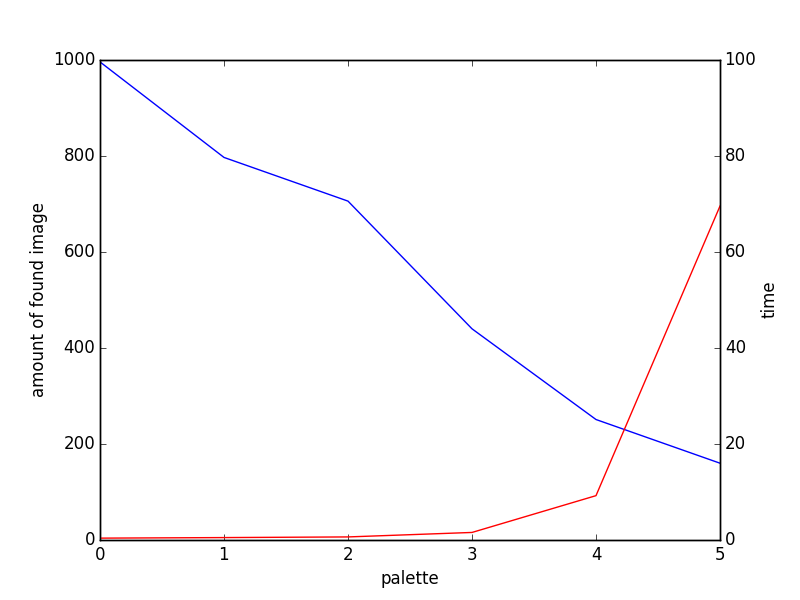
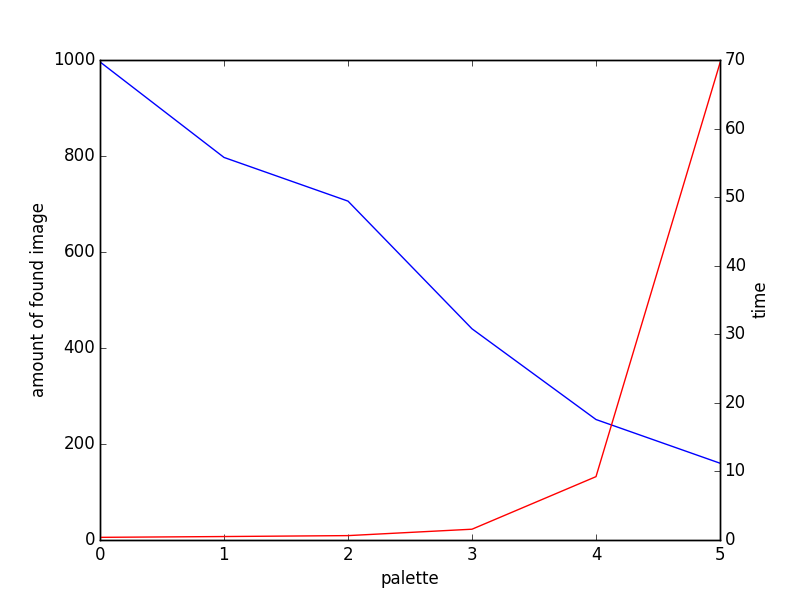
fix histogram

diff --git a/histogram.py b/histogram.py
@@ -1,74 +1,16 @@
 #!/usr/bin/env python3
 # coding: utf-8
 
-from PIL import Image
 
-
-class Histogram(object):
-    def __init__(self, crop, scheibe, palette):
-        self.setinfo(crop, scheibe, palette)
-
-    def open(self, fp):
-        self.ImgObj = Image.open(fp)
-        return self
-
-    def close(self):
-        self.ImgObj.close()
-
-    def getinfo(self):
-        return self.CROP, self.SLICE, self.PALETTE
-
-    def setinfo(self, crop=None, scheibe=None, palette=None):
-        self.CROP = crop if crop else self.CROP
-        self.SLICE = scheibe if scheibe else self.SLICE
-        self.PALETTE = palette if palette else self.PALETTE
-
-    def getrgb(self):
-        rgb = self.ImgObj.convert("RGB")
-        return list(rgb.getdata())
-
-    def generate(self):
-        rgb = self.getrgb()
-        PALETTE = self.PALETTE
-        histogram = [0 for _ in range(1 << (PALETTE*3))]
-        for dot in rgb:
-            r, g, b = map(lambda emit: emit >> (8-PALETTE), dot)
-            histogram[(r << (PALETTE*2))+(g << PALETTE)+b] += 1
-        return histogram
-
-    def crop(self):
-        cropped = []
-        CROP = self.CROP
-        width, height = map(lambda n: n // CROP, self.ImgObj.size)
-        for w in range(CROP):
-            for h in range(CROP):
-                box = (w*width, h*height, (w+1)*width, (h+1)*height)
-                cropped.append(self.ImgObj.crop(box))
-        return cropped
-
-    def form(self):
-        ImgObj = self.ImgObj
-        histograms = []
-        for piece in self.crop():
-            self.ImgObj = piece
-            rgb = self.getrgb()
-            histogram = self.generate()
-            sliced = slice(histogram, self.SLICE)
-            histograms.append(sliced)
-        self.ImgObj = ImgObj
-        return histograms
+def histogram(ImgObj):
+    rgb = ImgObj.convert("RGB")
+    PALETTE = 2
+    histogram = [0 for _ in range(1 << (PALETTE*3))]
+    for dot in rgb.getdata():
+        r, g, b = map(lambda emit: emit >> (8-PALETTE), dot)
+        histogram[(r << (PALETTE*2))+(g << PALETTE)+b] += 1
+    return histogram
 
 
 def intersection(histogram, comparison):
     return sum(map(min, histogram, comparison)) / (sum(histogram)+1)
-
-
-def slice(histogram, scheibe):
-    return [histogram[i::scheibe] for i in range(scheibe)]
-
-
-def compare(base, comparison):
-    avg = lambda l: sum(l) / len(l)
-    intersect = lambda b, h: list(map(intersection, b, h))
-    cropped = map(intersect, base, comparison)
-    return min(map(avg, list(cropped))) # min or avg

diff --git a/similarsearch.py b/similarsearch.py
@@ -10,11 +10,10 @@ from histogram import Histogram
 
 
 proc = 8
-EXTITLE = lambda info: '_crop%d_scheibe%d_palette%d' % info
-HISTOGRAM_PATH = lambda d, info: os.path.join(d, '.histogram'+EXTITLE(info))
+HISTOGRAM_PATH = lambda d: os.path.join(d, '.histogram')
 
 
-def StackHistogram(directory, crop, scheibe, palette, ignore=[]):
+def StackHistogram(directory, crop, ignore=[]):
     global stack
     precisions = (crop, scheibe, palette)
     histodir = HISTOGRAM_PATH(directory, precisions)
@@ -95,3 +94,20 @@ def Search(fp, directory, crop, scheibe, palette, tolerance):
             similar.append(histoname)
 
     return similar
+
+#!/usr/bin/env python3
+# coding: utf-8
+
+
+def histogram(ImgObj):
+    rgb = ImgObj.convert("RGB")
+    PALETTE = 2
+    histogram = [0 for _ in range(1 << (PALETTE*3))]
+    for dot in rgb.getdata():
+        r, g, b = map(lambda emit: emit >> (8-PALETTE), dot)
+        histogram[(r << (PALETTE*2))+(g << PALETTE)+b] += 1
+    return histogram
+
+
+def intersection(histogram, comparison):
+    return sum(map(min, histogram, comparison)) / (sum(histogram)+1)

diff --git a/ran/plot.py b/ran/plot.py
@@ -1,6 +1,6 @@
 import matplotlib.pyplot as plt
 
-fps = ['crop', 'scheibe', 'precision']
+fps = ['crop', 'scheibe', 'palette', 'precision']
 
 def parse(fp, t):
     f = open(fp).read().split()
@@ -15,7 +15,7 @@ def plot(fp):
     ax2.plot(parse(fp, 0), color='r', label='time')
     ax2.set_ylabel('time')
     ax1.set_ylim(0, 1000)
-    ax2.set_ylim(0, 2)
+    ax2.set_ylim(bottom=0)
     # ax1.legend(loc=0)
     # ax2.legend(loc=0)
     fig.savefig(fp+'.png')

diff --git a/.histogram.md b/.histogram.md
@@ -1,88 +1,11 @@
-# The `histogram` module
+# The `similarsearch` module
 
 This module is for the similar image search using the Histogram Intersection.
-This module is dependent on the PIL(Pillow).
+This module is dependent on the PIL(Pillow). Import `PIL` for processing Image
+Object.
 
-
-
-## The `Histogram(crop, scheibe, palette)` class
-
-This class is for generate histogram. First import `Histogram`:
-
-    >>> from histogram import Histogram
-    >>> hst = Histogram(5, 1, 3)
-
-
-### Using `Histogram.open(fp)`
-
-This module reads the image specified in the `fp` to generate histogram using
-`PIL.Image`.
-
-    >>> try:
-    ...     hst.open('image/not/exist')
-    ... except:
-    ...     print('error')
-    error
-    >>> null = hst.open('source/test.jpg')
-
-
-### Using `Histogram.getinfo()`
-
-This module gets the precisions information.
-
-    >>> hst.getinfo()
-    (5, 1, 3)
-
-
-### Using `Histogram.setinfo(crop=None, scheibe=None, palette=None)`
-
-This module gives the precisions information.
-
-    >>> crp, slc, plt = 1, 1, 2
-    >>> hst.setinfo(crp, palette=plt)
-
-
-### Using `Histogram.getrgb()`
-
-This module gives the RGB value.
-
-    >>> rgb = hst.getrgb()
-    >>> rgb[0]
-    (8, 119, 237)
-
-
-### Using `Histogram.generate()`
-
-This module processes the Image Object to the RGB histogram which quality is
-defined in the `Histogram.PALETTE`.
-
-    >>> histo = hst.generate()
-    >>> len(histo) == 1 << (plt*3)
-    True
-
-
-### Using `Histogram.crop()`
-
-This module divide Image Object to some crops defined in `Histogram.CROP` using
-`PIL.crop`.
-
-    >>> cropped = hst.crop()
-    >>> len(cropped) == crp
-    True
-
-
-### Using `Histogram.form()`
-
-This module creates Image Object histogram for experiments.
-
-    >>> formed = hst.form()
-    >>> len(formed) == crp
-    True
-    >>> len(formed[0]) == slc
-    True
-    >>> len(formed[0][0]) == 1 << (plt*3)
-    True
-
+    >>> from PIL import Image
+    >>> img = Image.open('source/test.jpg')
 
 
 ## Modules
@@ -92,29 +15,19 @@ This module creates Image Object histogram for experiments.
     >>> import histogram as hi
 
 
+### Using `hi.generate(ImgObj)`
+
+This module processes the Image Object to the RGB histogram which quality is
+defined in the `Histogram.PALETTE`.
+
+    >>> histogram = hi.generate(img)
+
+
 ### Using `intersection(histogram, comparison)`
 
 This module calculates the similarity by two histograms.
 
-    >>> comp = hst.generate()
+    >>> cmp = Image.open('source/test.jpg')
+    >>> comparison = hi.generate(cmp)
     >>> hi.intersection(histo, comp) == 1.0
-    True
-
-
-### Using `slice(histogram, scheibe)`
-
-This module divides histogram to some crops defined in `scheibe` using
-list-slice.
-
-    >>> sliced = hi.slice(histo, slc)
-    >>> len(sliced) == slc
-    True
-
-
-### Using `compare(base, comparison)`
-
-This module compares two histogram in intersection.
-
-    >>> comp = hst.form()
-    >>> hi.compare(formed, comp) == 1.0
     True
